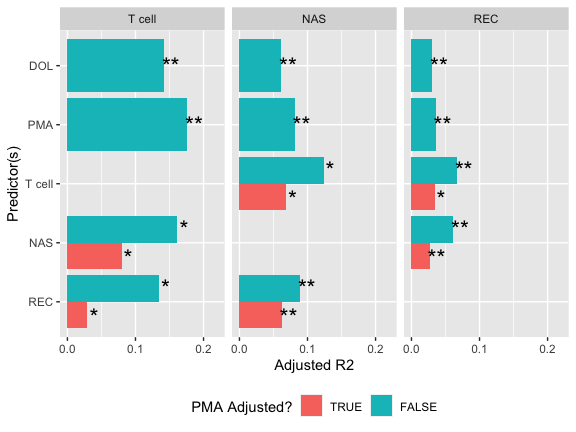
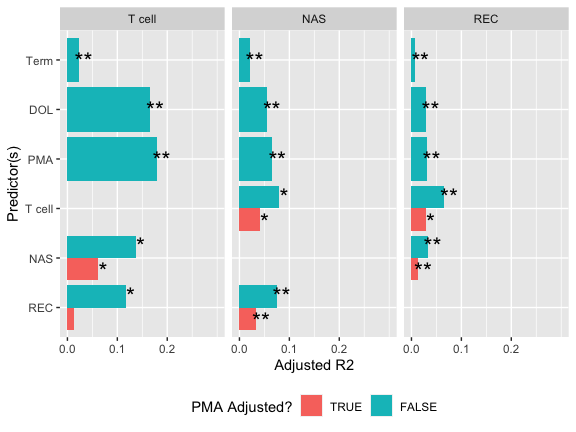
Refactor R^2 calcs and add indicator for preterm yes/no

diff --git a/04_multivariate_r2.md b/04_multivariate_r2.md
@@ -18,7 +18,7 @@ library(tidyverse)
 
     ## Warning: package 'tidyverse' was built under R version 3.5.2
 
-    ## ── Attaching packages ─────────────────────────────────────────────── tidyverse 1.3.0 ──
+    ## ── Attaching packages ────────────────────────────────────────────────────────────────────── tidyverse 1.3.0 ──
 
     ## ✓ ggplot2 3.3.0     ✓ purrr   0.3.3
     ## ✓ tibble  2.1.3     ✓ dplyr   0.8.5
@@ -39,7 +39,7 @@ library(tidyverse)
 
     ## Warning: package 'forcats' was built under R version 3.5.2
 
-    ## ── Conflicts ────────────────────────────────────────────────── tidyverse_conflicts() ──
+    ## ── Conflicts ───────────────────────────────────────────────────────────────────────── tidyverse_conflicts() ──
     ## x dplyr::filter() masks stats::filter()
     ## x dplyr::lag()    masks stats::lag()
 
@@ -66,19 +66,28 @@ library(car)
     ##     some
 
 ``` r
-all_feats = read_csv('intermediates/all_tcell_features.csv')
+subject = read_csv('data/subject_covariates.csv') %>% transmute(ispreterm = preterm_weeks >= 0, Subject)
 ```
 
     ## Parsed with column specification:
     ## cols(
-    ##   .default = col_double(),
+    ##   Gender = col_character(),
+    ##   Race = col_character(),
+    ##   `Birth Season` = col_character(),
+    ##   preterm_weeks = col_double(),
+    ##   auc14 = col_double(),
+    ##   PRD = col_character(),
+    ##   preg_antibiotics = col_character(),
+    ##   mode_delivery = col_character(),
+    ##   cchorio = col_character(),
+    ##   preg_membrane_18hr = col_character(),
+    ##   birth_wt_gms = col_double(),
+    ##   `cmv test` = col_character(),
     ##   Subject = col_character()
     ## )
-
-    ## See spec(...) for full column specifications.
 
 ``` r
-all_mb = read_csv('intermediates/microbiome_joined.csv')
+all_feats = read_csv('intermediates/all_tcell_features.csv') %>% left_join(subject)
 ```
 
     ## Parsed with column specification:
@@ -86,7 +95,24 @@ all_mb = read_csv('intermediates/microbiome_joined.csv')
     ##   .default = col_double(),
     ##   Subject = col_character()
     ## )
+
     ## See spec(...) for full column specifications.
+
+    ## Joining, by = "Subject"
+
+``` r
+all_mb = read_csv('intermediates/microbiome_joined.csv') %>% left_join(subject)
+```
+
+    ## Parsed with column specification:
+    ## cols(
+    ##   .default = col_double(),
+    ##   Subject = col_character()
+    ## )
+
+    ## See spec(...) for full column specifications.
+
+    ## Joining, by = "Subject"
 
 ``` r
 timeline = read_csv('data/subject_timeline.csv')
@@ -103,9 +129,22 @@ timeline = read_csv('data/subject_timeline.csv')
 # Multivariate \(R^2\) associations (figure 1)
 
 ``` r
-estimate_mlm_r2 = function(lhs_data, rhs_data, formula_, null_form = . ~ 1, response_label, predictor_label){
+aic_mlm = function(object){
+   res = object$residuals
+    p = object$rank
+    N = length(res)
+    w = 1
+   val = 0.5 * (sum(log(w)) - N * (log(2 * pi) + 1 - log(N) + 
+        log(sum(w * res^2))))
+  -2*val + 2*p
+}
+
+as_char_form = function(x) paste0(as.character(x)[c(2, 1, 3:length(x))], collapse = ' ')
+
+estimate_mlm_r2 = function(lhs_data, rhs_data, formula_, null_form = . ~ 1, response_label, predictor_label, adjusted = NA){
   # Drop NAs and constant columns
   lhs_data = as.matrix(lhs_data)
+  #rhs_data = as.matrix(rhs_data)
   colVar = apply(lhs_data, 2, var, na.rm = TRUE)
   lhs_data = lhs_data[,colVar > 1e-4,drop = FALSE]
   colVar = apply(rhs_data, 2, var, na.rm = TRUE)
@@ -118,12 +157,13 @@ estimate_mlm_r2 = function(lhs_data, rhs_data, formula_, null_form = . ~ 1, resp
   
   # Left hand side is compositional, take ILR
   lhs_data_comp = compositions::ilr(compositions::clo(lhs_data))
+  formula_ = as.formula(formula_)
   environment(formula_) = environment()
   full = lm(formula_, data = rhs_data)
   null = update(full, null_form)
   adjr2 = 1 - (sum(full$residuals^2)/full$df.residual) /  (sum(null$residuals^2)/null$df.residual)
   anova_ = anova(full, null, test = 'Wilks', tol = 1e-6)
-  stats = tibble(adjr2 = adjr2, pval = anova_[2,'Pr(>F)'], response_label = response_label, predictor_label = predictor_label, n = min(nrow(rhs_data), nrow(lhs_data)), p_rhs = ncol(rhs_data), p_lhs = ncol(lhs_data))
+  stats = tibble(adjr2 = adjr2, pval = anova_[2,'Pr(>F)'], response_label = response_label, predictor_label = predictor_label, n = min(nrow(rhs_data), nrow(lhs_data)), p_rhs = ncol(rhs_data), p_lhs = ncol(lhs_data), adjusted = adjusted, null_form = as_char_form(null_form), full_form = as_char_form(formula_), aic_full = aic_mlm(full))
   stats
 }
 
@@ -142,32 +182,9 @@ rec_mb = all_mb_dol %>% select(ends_with('.rec')) %>% as.matrix()
 
 
 all_feats_dol = all_feats %>% left_join(timeline[c('Subject',  'Sequence Num', 'DOL')], by = c('Subject',  'Sequence Num')) %>% mutate(log2DOL = log2(`DOL` + 1))
-
-r2_res = push(estimate_mlm_r2(rec_mb, all_mb_dol['cga'],  lhs_data_comp ~ cga, response_label = 'REC', predictor_label = 'PMA'))
-
-r2_res = push(r2_res, estimate_mlm_r2(rec_mb, all_mb_dol['log2DOL'],  lhs_data_comp ~ log2DOL, response_label = 'REC', predictor_label = 'DOL'))
-
-
-r2_res = push(r2_res, estimate_mlm_r2(all_mb_dol %>% select(ends_with('.nas')) %>% as.matrix(), all_mb_dol['cga'], lhs_data_comp ~ cga, response_label = 'NAS', predictor_label = 'PMA'))
-
-r2_res = push(r2_res, estimate_mlm_r2(all_mb_dol %>% select(ends_with('.nas')) %>% as.matrix(), all_mb_dol['log2DOL'], lhs_data_comp ~ log2DOL, response_label = 'NAS', predictor_label = 'DOL'))
-
-r2_res = push(r2_res, estimate_mlm_r2(all_mb_dol %>% select(ends_with('.nas')) %>% as.matrix(), all_mb_dol %>% select(ends_with('.rec')), lhs_data_comp ~ ., response_label = 'NAS', predictor_label = 'REC'))
-
-r2_res = push(r2_res, estimate_mlm_r2(all_mb_dol %>% select(ends_with('.nas')) %>% as.matrix(), all_mb_dol %>% select(ends_with('.rec'), cga), lhs_data ~ . + cga, null_form = . ~ cga, response_label = 'NAS', predictor_label = 'REC (cga adjusted)'))
-
-r2_res = push(r2_res, estimate_mlm_r2(all_mb_dol %>% select(ends_with('.rec')) %>% as.matrix(), all_mb_dol %>% select(ends_with('.nas')), lhs_data ~ ., response_label = 'REC', predictor_label = 'NAS'))
-
-r2_res = push(r2_res, estimate_mlm_r2(all_mb_dol %>% select(ends_with('.rec')) %>% as.matrix(), all_mb_dol %>% select(ends_with('.nas'), cga), lhs_data ~ . + cga, null_form = . ~ cga, response_label = 'REC', predictor_label = 'NAS (cga adjusted)'))
-
-
-r2_res = push(r2_res, estimate_mlm_r2(all_feats_dol %>% select(starts_with('Meta.Cluster')) %>% as.matrix(), all_feats_dol['cga'], lhs_data_comp ~ cga, response_label = 'T cell', predictor_label = 'PMA'))
-
-
-r2_res = push(r2_res, estimate_mlm_r2(all_feats_dol %>% select(starts_with('Meta.Cluster')) %>% as.matrix(), all_feats_dol['log2DOL'], lhs_data_comp ~ log2DOL, response_label = 'T cell', predictor_label = 'DOL'))
 ```
 
-## T cell on MB
+## Setup T cell with MB
 
 Get Visits 1, 7, 19 from timeline, and their DOL
 
@@ -201,7 +218,7 @@ closest_visit %>% group_by(`Subject`) %>% summarize(n())
 all_mb_closest = inner_join(all_mb[!duplicated(all_mb[c('Subject', 'DOL')]),], 
                             closest_visit %>% select(`Sequence Num.T` = `Sequence Num`, `Subject`, DOL = DOL_m))
 
-mb_tcell_closest = inner_join(all_feats %>% rename(`Sequence Num.T` = `Sequence Num`), select(all_mb_closest, -`Sequence Num`), by = c('Subject', 'Sequence Num.T'), suffix = c('.T', '.B'))
+mb_tcell_closest = inner_join(all_feats %>% rename(`Sequence Num.T` = `Sequence Num`), select(all_mb_closest, -`Sequence Num`, -ispreterm, -cga), by = c('Subject', 'Sequence Num.T'), suffix = c('.T', '.B'))
 
 mb_tcell_closest %>% group_by(`Subject`) %>% summarize(n())
 ```
@@ -222,31 +239,72 @@ mb_tcell_closest %>% group_by(`Subject`) %>% summarize(n())
     ## # … with 137 more rows
 
 ``` r
-r2_res = push(r2_res, estimate_mlm_r2(mb_tcell_closest %>% select(ends_with('.rec')) %>% as.matrix(), mb_tcell_closest %>% select(starts_with('Meta.Cluster')), lhs_data_comp ~ ., response_label = 'REC', predictor_label = 'T cell'))
+pred_table = tibble(covariates = c('Term', 'DOL', 'PMA', 'T cell', 'NAS', 'REC', 'T cell', 'NAS', 'REC'),
+      adjusted = c(FALSE, FALSE, FALSE, FALSE, FALSE, FALSE, TRUE, TRUE, TRUE))
 
-r2_res = push(r2_res, estimate_mlm_r2(mb_tcell_closest %>% select(ends_with('.nas')) %>% as.matrix(), mb_tcell_closest %>% select(starts_with('Meta.Cluster')), lhs_data_comp ~ ., response_label = 'NAS', predictor_label = 'T cell'))
+r2_res = list()
+for(i in seq_len(nrow(pred_table))){
+  for(resp in c('T cell', 'NAS', 'REC')){
+    pred = pred_table[[i, 'covariates']]
+    adjusted = pred_table[[i, 'adjusted']]
+    if(pred == resp) next
+    if( (pred  == 'T cell' && resp %in% c('NAS', 'REC')) || (resp == 'T cell' && pred %in% c('NAS', 'REC'))) {
+      data = mb_tcell_closest
+    } else if (resp == 'T cell') {
+      data = all_feats_dol
+    } else{
+      data = all_mb_dol
+    }
+    
+    null_form = . ~  ispreterm
+    if(pred == 'Term'){
+      form_ = "lhs_data_comp ~ 1"
+      null_form = . ~ 1
+      rhs_data = data['ispreterm']
+    } else if(pred == 'DOL'){
+      form_ = "lhs_data_comp ~ log2DOL"
+      rhs_data = data[c('ispreterm', 'log2DOL')]
+    } else if( pred == 'PMA'){
+      form_ = "lhs_data_comp ~ cga"
+      rhs_data = data[c('ispreterm', 'cga')]
+    } else if (pred == 'T cell'){
+      form_ = "lhs_data_comp ~ ."
+      rhs_data = data %>% select(starts_with('Meta.Cluster'), ispreterm)
+    } else if( pred == 'NAS'){
+      form_ = "lhs_data_comp ~ ."
+      rhs_data = data %>% select(ends_with('.nas'), ispreterm)
+    } else if (pred == 'REC'){
+      form_ = "lhs_data_comp ~ ."
+      rhs_data = data %>% select(ends_with('.rec'), ispreterm)
+    }
+    
+    # always adjust for preterm
+    form_ = str_c(form_, ' + ispreterm')
+    
+    if(adjusted){
+      form_ = str_c(form_, ' + cga')
+      rhs_data = cbind(rhs_data, data['cga'])
+      null_form = . ~ ispreterm + cga
+    }
+    
+    if(resp == 'T cell'){
+      lhs_data = data %>% select(starts_with('Meta.Cluster'))
+    } else if(resp == 'NAS'){
+      lhs_data = data %>% select(ends_with('.nas'))
+    } else if( resp == 'REC'){
+      lhs_data = data %>% select(ends_with('.rec'))
+    }
 
-r2_res = push(r2_res, estimate_mlm_r2(mb_tcell_closest %>% select(starts_with('Meta.Cluster')) %>% as.matrix(), mb_tcell_closest %>% select(ends_with('.nas')), lhs_data_comp ~ ., response_label = 'T cell', predictor_label = 'NAS'))
-
-r2_res = push(r2_res, estimate_mlm_r2(mb_tcell_closest %>% select(starts_with('Meta.Cluster')) %>% as.matrix(), mb_tcell_closest %>% select(ends_with('.rec')), lhs_data_comp ~ ., response_label = 'T cell', predictor_label = 'REC'))
-
-# Adjusted 
-r2_res = push(r2_res, estimate_mlm_r2(mb_tcell_closest %>% select(ends_with('.rec'))%>% as.matrix(), mb_tcell_closest %>% select(starts_with('Meta.Cluster'), cga.T), lhs_data_comp ~ ., null_form = ~ cga.T, response_label = 'REC', predictor_label = 'T cell (cga adjusted)'))
-
-r2_res = push(r2_res, estimate_mlm_r2(mb_tcell_closest %>% select(ends_with('.nas'))%>% as.matrix(), mb_tcell_closest %>% select(starts_with('Meta.Cluster'), cga.T), lhs_data_comp ~ ., null_form = ~ cga.T, response_label = 'NAS', predictor_label = 'T cell (cga adjusted)'))
-
-r2_res = push(r2_res, estimate_mlm_r2(mb_tcell_closest %>% select(starts_with('Meta.Cluster')) %>% as.matrix(), mb_tcell_closest %>% select(ends_with('.nas'), cga.B), lhs_data_comp ~ ., null_form = ~ cga.B, response_label = 'T cell', predictor_label = 'NAS (cga adjusted)'))
-
-r2_res = push(r2_res, estimate_mlm_r2(mb_tcell_closest %>% select(starts_with('Meta.Cluster')) %>% as.matrix(), mb_tcell_closest %>% select(ends_with('.rec'), cga.B), lhs_data_comp ~ ., null_form = ~ cga.B, response_label = 'T cell', predictor_label = 'REC (cga adjusted)'))
+    r2_res = push(r2_res, estimate_mlm_r2(lhs_data, rhs_data, form_, null_form, response_label = resp, predictor_label = pred, adjusted = adjusted))
+  }
+}
 ```
 
 ``` r
 r2_res = bind_rows(r2_res) 
 
 r2_res = r2_res %>% 
-  mutate(adjusted = str_detect(predictor_label, '(cga adjusted)'), 
-         predictor_label2 = str_replace_all(predictor_label, fixed(' (cga adjusted)'), ''), 
-         predictor_label2 = factor(predictor_label2, levels = rev(c('DOL', 'PMA', 'T cell', 'NAS', 'REC'))),
+  mutate(predictor_label2 = factor(predictor_label, levels = rev(c('Term', 'DOL', 'PMA', 'T cell', 'NAS', 'REC'))),
          response_label = factor(response_label, levels = c('T cell', 'NAS', 'REC')), 
          adjusted = factor(adjusted, levels = c('TRUE', 'FALSE')),
          pstar = case_when(pval < 1e-20 ~ '**',  pval < 1e-4 ~ '*', TRUE ~ ''))
@@ -259,7 +317,7 @@ ggplot(r2_res, aes(x = response_label, y = predictor_label, fill = adjr2)) + geo
 ![](04_multivariate_r2_files/figure-gfm/plot_mv_r2-1.png)<!-- -->
 
 ``` r
-ggplot(r2_res, aes(y = adjr2, x = predictor_label2, fill = adjusted)) + geom_col(position = 'dodge') + coord_flip() + facet_grid(~response_label)+ geom_text(aes(y = adjr2 + .01, label = pstar), position = position_dodge(width = 1), size = 6) + ylab('Adjusted R2') + xlab('Predictor(s)') + scale_y_continuous(limits = c(0, .22), breaks = c(0, .1, .2)) + theme(legend.position = 'bottom') + scale_fill_discrete('PMA Adjusted?', direction = 1)
+ggplot(r2_res, aes(y = adjr2, x = predictor_label2, fill = adjusted)) + geom_col(position = 'dodge') + coord_flip() + facet_grid(~response_label)+ geom_text(aes(y = adjr2 + .01, label = pstar), position = position_dodge(width = 1), size = 6) + ylab('Adjusted R2') + xlab('Predictor(s)') + scale_y_continuous(limits = c(0, .3), breaks = c(0, .1, .2)) + theme(legend.position = 'bottom') + scale_fill_discrete('PMA Adjusted?', direction = 1)
 ```
 
 ![](04_multivariate_r2_files/figure-gfm/plot_mv_r2-2.png)<!-- -->
@@ -267,3 +325,15 @@ ggplot(r2_res, aes(y = adjr2, x = predictor_label2, fill = adjusted)) + geom_col
 ``` r
 r2_res %>% dplyr::select(-predictor_label2) %>% dplyr::select(predictor_label, response_label, everything()) %>% mutate(adjr2 = round(adjr2, 3)) %>% write_csv(path = 'intermediates/di_results/r2_supp_table.csv')
 ```
+
+## AIC (Smaller is better)
+
+``` r
+dplyr::filter(r2_res, predictor_label %in% c('Term', 'DOL', 'PMA')) %>% select(predictor_label, response_label, aic_full) %>% tidyr::spread(predictor_label, aic_full) %>% knitr::kable()
+```
+
+| response\_label |       DOL |       PMA |     Term |
+| :-------------- | --------: | --------: | -------: |
+| T cell          |  27011.52 |  26853.06 |  28849.4 |
+| NAS             | 291297.08 | 290113.10 | 297054.0 |
+| REC             | 704856.55 | 704257.27 | 711911.2 |
